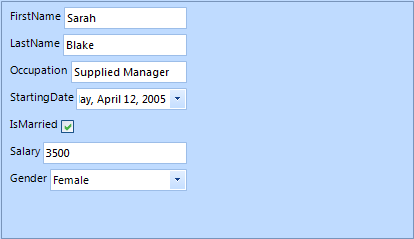
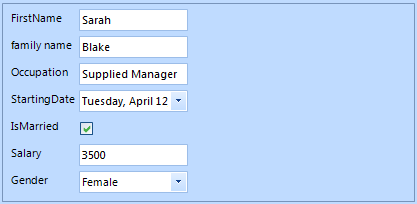
DataEntry Uncomment DisplayName attribute

Changed region(s): [[0.0, 0.0, 1.0, 1.0]]

diff --git a/dataentry/properties-events-and-attributes.md b/dataentry/properties-events-and-attributes.md
@@ -274,7 +274,7 @@ The __DisplayName__ attribute defines what text should be displayed in the label
 {{source=..\SamplesVB\DataEntryAndBindingNavigator\RadDataEntryProgram.vb region=DisplayName}} 
 
 ````C#
-//[DisplayName("family name")]
+[DisplayName("family name")]
 public string LastName
 {
     get;
